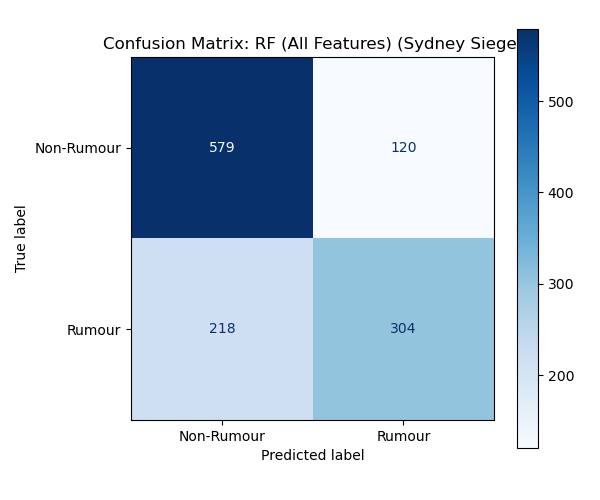
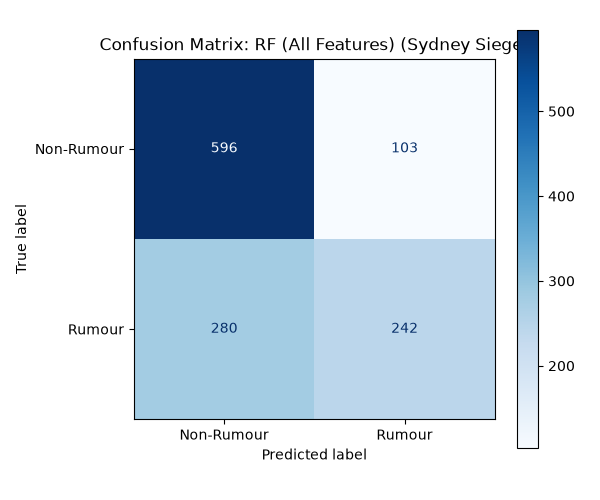
Fit feature transformers on training events only
TF-IDF, SelectKBest and StandardScaler were fitted on all threads,
including the held-out Sydney Siege event, leaking test information.
Split by event first, fit on training data, and transform the test set.
Refresh notebook output, figures and README results (macro F1 now ~0.66).

diff --git a/README.md b/README.md
@@ -18,13 +18,18 @@ Models were trained on four events and tested on an **unseen event** (Sydney Sie
 
 | Model | Accuracy | Macro Precision | Macro Recall | Macro F1 |
 |---|---|---|---|---|
-| Random Forest (text only) | 0.688 | 0.681 | 0.675 | 0.677 |
-| **Random Forest (all features)** | **0.723** | **0.722** | **0.705** | **0.708** |
-| SVM (all features) | 0.663 | 0.701 | 0.618 | 0.599 |
+| Random Forest (text only) | 0.632 | 0.622 | 0.608 | 0.607 |
+| Random Forest (all features) | 0.686 | 0.691 | 0.658 | 0.658 |
+| **SVM (all features)** | **0.692** | **0.704** | **0.661** | **0.659** |
 
-**Best model: Random Forest with text and conversation features, macro F1 = 0.71, accuracy = 72%.**
-Adding the reply-based features raised macro F1 by about 3 points over text alone.
-With a threshold of 0.65, the Trend Emergence Score flagged 15 of the 1,221 test threads for priority triage.
+**Best model: SVM with text and conversation features, macro F1 = 0.66, accuracy = 69%.** The Random Forest on the
+same features is effectively tied (macro F1 = 0.658).
+Adding the reply-based features raised macro F1 by about 5 points over text alone (0.607 → 0.658).
+With a threshold of 0.65, the Trend Emergence Score flagged 11 of the 1,221 test threads for priority triage.
+
+All feature transformers (TF-IDF, feature selection, scaling) are fitted on the training events only, so no
+information from the test event leaks into training. The confusion matrix and feature importances below are for the
+Random Forest (all features), which also drives the Trend Emergence Score.
 
 | ROC curves | Confusion matrix | Top features |
 |---|---|---|
@@ -40,7 +45,8 @@ With a threshold of 0.65, the Trend Emergence Score flagged 15 of the 1,221 test
   (for example *fake*, *hoax*, *unconfirmed*, *source*, *really*).
 - **Reply activity.** The number of replies and the replies per hour within the window.
 
-Numerical features are standardised with `StandardScaler`.
+Numerical features are standardised with `StandardScaler`. TF-IDF, `SelectKBest` and `StandardScaler` are all
+fitted on the training events and then applied unchanged to the test event.
 
 **Models.** All from scikit-learn:
 
